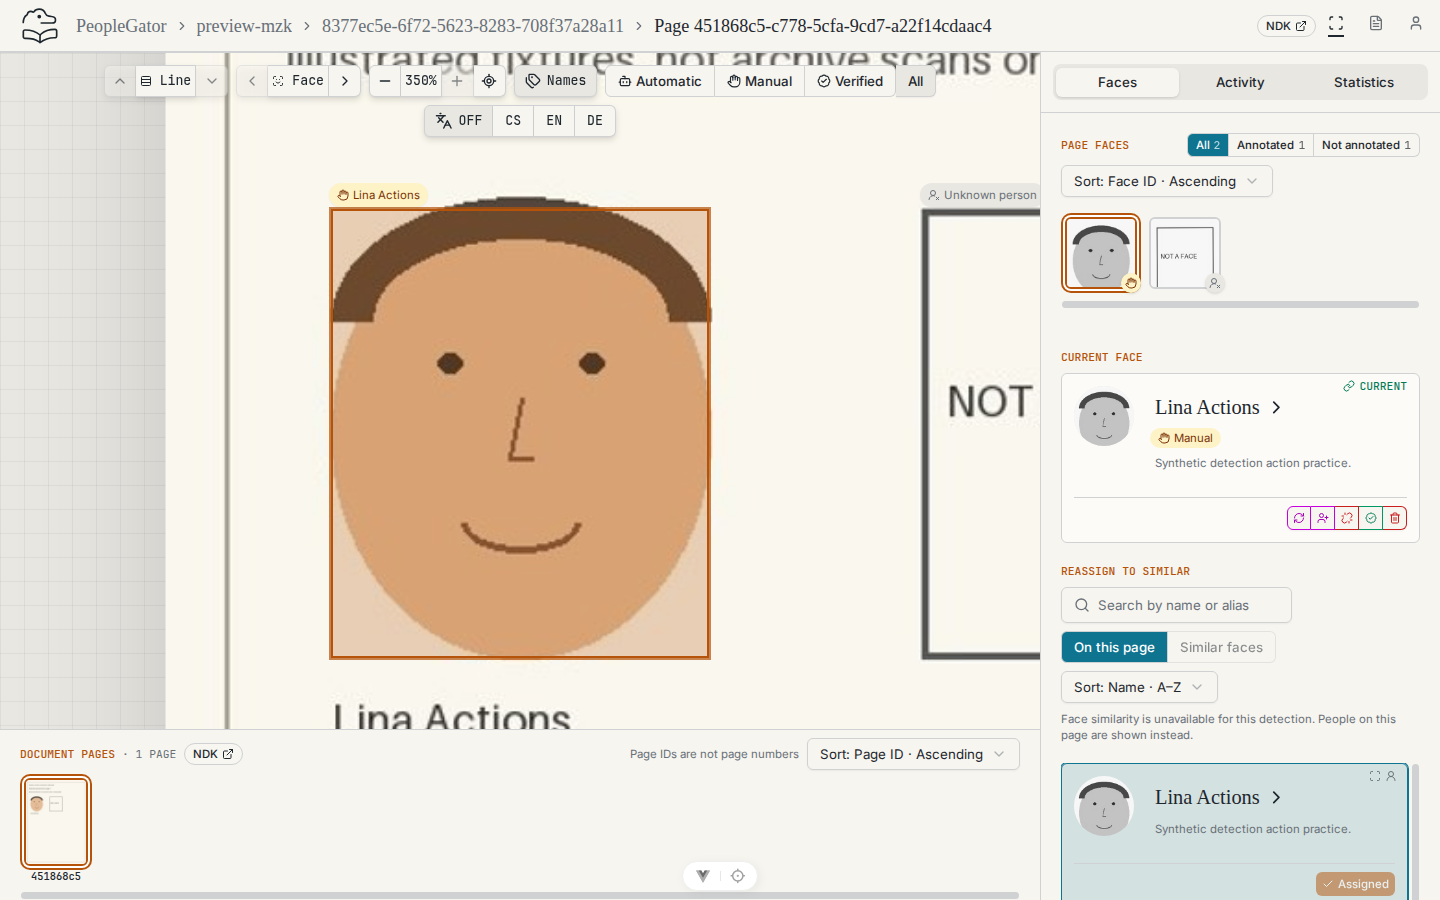
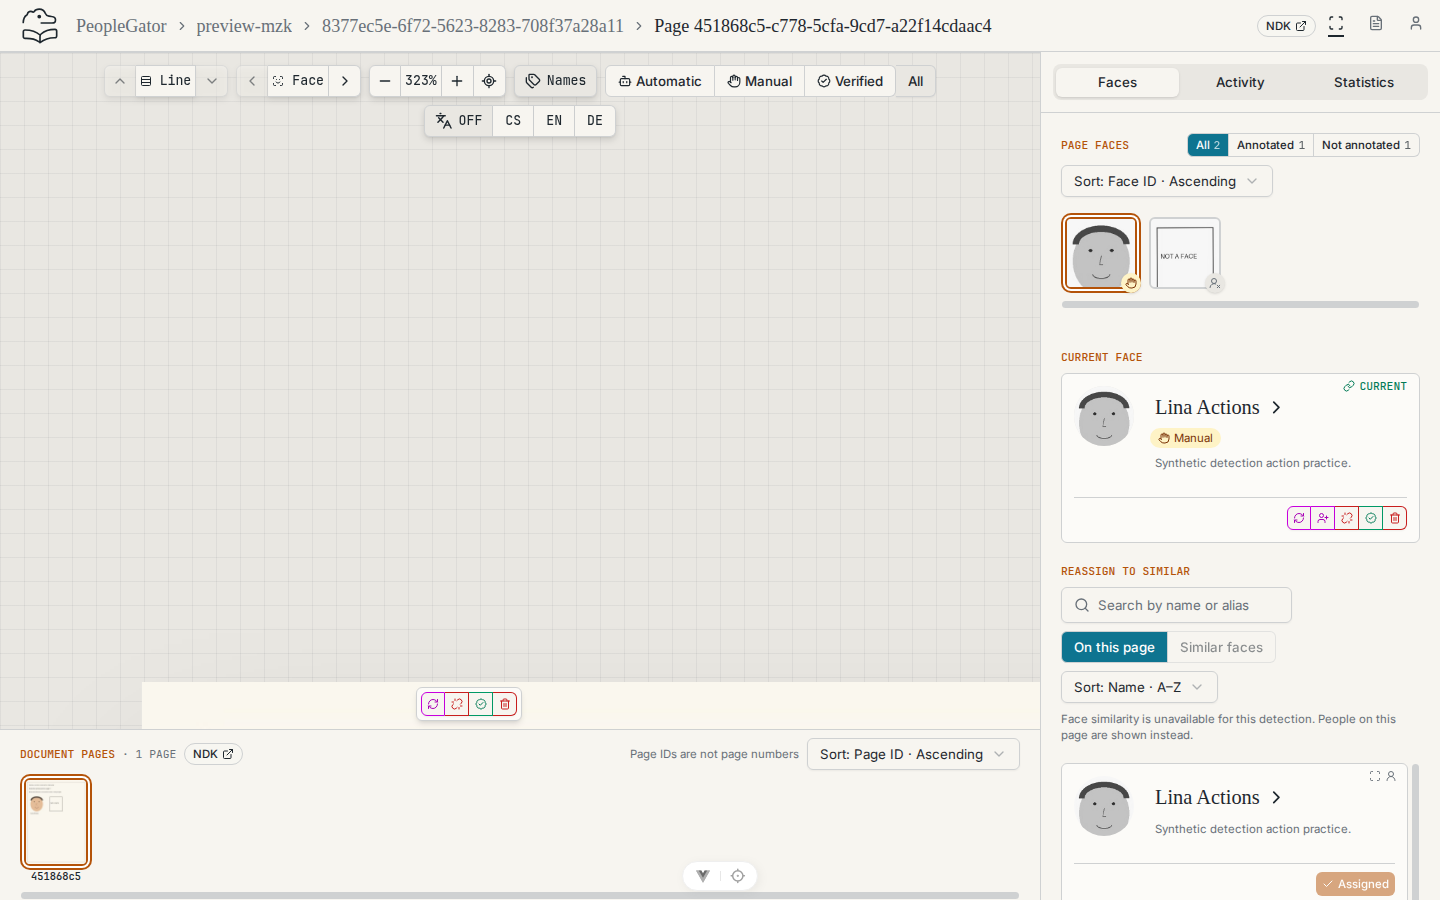
Keep detection actions available for the selected face during scan movement

diff --git a/people-gator-app/src/components/custom/DocumentPageOverlay.vue b/people-gator-app/src/components/custom/DocumentPageOverlay.vue
@@ -1,8 +1,8 @@
 <script setup lang="ts">
 import EntityLinkStateBadge from './EntityLinkStateBadge.vue'
 import { linkTooltip } from '@/lib/entity-links'
-import { ref, watch, type CSSProperties } from 'vue'
-import { Popover, PopoverTrigger, PopoverContent } from '@/components/ui/popover'
+import { ref, type CSSProperties } from 'vue'
+import { Popover, PopoverAnchor, PopoverContent } from '@/components/ui/popover'
 
 import { lineMentionsEntity } from '@/viewmodels/document-workspace.types'
 import type {
@@ -30,21 +30,8 @@ const props = withDefaults(
 const emit = defineEmits<{
   selectLine: [index: number]
   selectFace: [faceId: string]
+  clearFace: []
 }>()
-
-const openFaceId = ref<string | null>(null)
-watch(
-  () => props.selectedFaceId,
-  (id) => {
-    if (id !== openFaceId.value) openFaceId.value = null
-  },
-)
-watch(
-  () => props.faces,
-  (faces) => {
-    if (!faces.some((face) => face.id === openFaceId.value)) openFaceId.value = null
-  },
-)
 
 const overlay = ref<HTMLElement | null>(null)
 function returnFocus(event: Event, faceId: string) {
@@ -129,14 +116,14 @@ function regionStyle(position: Face['position']): CSSProperties {
     <Popover
       v-for="face in faces"
       :key="face.id"
-      :open="openFaceId === face.id"
-      @update:open="openFaceId = $event && actionsEnabled ? face.id : null"
+      :open="actionsEnabled && selectedFaceId === face.id"
     >
-      <PopoverTrigger as-child>
+      <PopoverAnchor as-child>
         <button
           v-if="face.position.width > 0 && face.position.height > 0"
           :key="face.id"
           type="button"
+          :id="`detection-${face.id}`"
           data-region-type="face"
           :data-detection-id="face.id"
           class="pointer-events-auto absolute border-2 transition-colors focus-visible:outline-2 focus-visible:outline-offset-2 focus-visible:outline-accent"
@@ -144,6 +131,8 @@ function regionStyle(position: Face['position']): CSSProperties {
           :style="regionStyle(face.position)"
           :aria-label="`Select ${face.name}: ${linkTooltip(face)}`"
           :aria-pressed="face.id === selectedFaceId"
+          :aria-expanded="actionsEnabled ? face.id === selectedFaceId : undefined"
+          :aria-haspopup="actionsEnabled ? 'dialog' : undefined"
           @pointerdown.stop
           @click.stop="emit('selectFace', face.id)"
         >
@@ -157,7 +146,7 @@ function regionStyle(position: Face['position']): CSSProperties {
             :class="showBadgeNames ? 'max-w-40' : 'size-6'"
           />
         </button>
-      </PopoverTrigger>
+      </PopoverAnchor>
       <PopoverContent
         v-if="$slots.actions"
         side="top"
@@ -166,10 +155,13 @@ function regionStyle(position: Face['position']): CSSProperties {
         :collision-padding="8"
         sticky="always"
         update-position-strategy="always"
-        hide-when-detached
+        prioritize-position
+        :aria-labelledby="`detection-${face.id}`"
+        @interact-outside.prevent
+        @escape-key-down="emit('clearFace')"
         @close-auto-focus="returnFocus($event, face.id)"
       >
-        <slot name="actions" :face="face" :close="() => (openFaceId = null)" />
+        <slot name="actions" :face="face" />
       </PopoverContent>
     </Popover>
   </div>

diff --git a/people-gator-app/src/__tests__/DocumentPageOverlay.spec.ts b/people-gator-app/src/__tests__/DocumentPageOverlay.spec.ts
@@ -212,7 +212,7 @@ describe('DocumentPageOverlay', () => {
   })
 })
 
-it('opens actions, restores keyboard focus on Escape and dismisses the first outside click', async () => {
+it('keeps selected-face actions through viewport movement and outside clicks until selection clears', async () => {
   vi.stubGlobal(
     'ResizeObserver',
     class {
@@ -256,10 +256,14 @@ it('opens actions, restores keyboard focus on Escape and dismisses the first out
     expect(panel!.contains(document.activeElement)).toBe(true)
     panel!.dispatchEvent(new KeyboardEvent('keydown', { key: 'Escape', bubbles: true }))
     await flushPromises()
+    expect(wrapper.emitted('clearFace')).toEqual([[]])
+    await wrapper.setProps({ selectedFaceId: null })
+    await flushPromises()
     await new Promise((resolve) => setTimeout(resolve, 10))
     expect(document.querySelector('[data-slot="popover-content"]')).toBeNull()
     expect(document.activeElement).toBe(detection.element)
     await detection.trigger('click')
+    await wrapper.setProps({ selectedFaceId: 'one' })
     await flushPromises()
     await new Promise((resolve) => setTimeout(resolve, 10))
     const reopened = document.querySelector<HTMLElement>('[data-slot="popover-content"]')!
@@ -267,6 +271,11 @@ it('opens actions, restores keyboard focus on Escape and dismisses the first out
       .querySelector('button')!
       .dispatchEvent(new MouseEvent('pointerdown', { bubbles: true }))
     document.body.dispatchEvent(new MouseEvent('pointerdown', { bubbles: true }))
+    await flushPromises()
+    expect(document.querySelector('[data-slot="popover-content"]')).toBe(reopened)
+    await wrapper.setProps({ pageBounds: { left: -900, top: -800, width: 1000, height: 1600 } })
+    expect(document.querySelector('[data-slot="popover-content"]')).toBe(reopened)
+    await wrapper.setProps({ selectedFaceId: null })
     await flushPromises()
     expect(document.querySelector('[data-slot="popover-content"]')).toBeNull()
   } finally {

diff --git a/people-gator-app/src/views/DocumentPageView.vue b/people-gator-app/src/views/DocumentPageView.vue
@@ -301,9 +301,7 @@ async function deleteDetection() {
   if (!face) return
   try {
     await deleteMutation.mutateAsync(face.id)
-    selectedFaceId.value = null
-    selectedPersonId.value = null
-    syncRoute()
+    clearFace()
     deletionTarget.value = null
     viewerElement.value?.focus()
   } catch {
@@ -376,6 +374,12 @@ function selectFace(faceId: string) {
   selectedFaceId.value = faceId
   selectedPersonId.value = faces.value.find((face) => face.id === faceId)?.personId ?? null
   if (selectedPersonId.value) showOnPageEntities()
+  syncRoute()
+}
+
+function clearFace() {
+  selectedFaceId.value = null
+  selectedPersonId.value = null
   syncRoute()
 }
 
@@ -454,8 +458,7 @@ async function createSimilarPerson(person: { name: string; shortDescription?: st
   syncRoute()
 }
 
-async function focusSimilarPeopleSearch(close?: () => void) {
-  close?.()
+async function focusSimilarPeopleSearch() {
   await router.replace({ query: { ...route.query, panel: undefined }, hash: '' })
   await nextTick()
   similarPeopleSearch.value?.focus()
@@ -697,14 +700,15 @@ onBeforeUnmount(() => {
         :show-badge-names="showBadgeNames"
         @select-line="selectLine"
         @select-face="selectFace"
+        @clear-face="clearFace"
       >
-        <template #actions="{ face, close }">
+        <template #actions="{ face }">
           <FaceActionButtons
             :face="face"
             :can-annotate="canAnnotate"
             :can-delete="canDelete"
             :busy="actionBusy"
-            @find-profile="focusSimilarPeopleSearch(close)"
+            @find-profile="focusSimilarPeopleSearch"
             @unassign="unassignSelectedFace"
             @verify="verifyFace(face)"
             @delete="deletionTarget = face"

diff --git a/people-gator-app/src/__tests__/DocumentPageView.spec.ts b/people-gator-app/src/__tests__/DocumentPageView.spec.ts
@@ -319,3 +319,20 @@ describe('shared detection actions', () => {
     wrapper.unmount()
   })
 })
+
+it('clears the selected face and route when the overlay requests Escape dismissal', async () => {
+  const wrapper = await mountView()
+  const overlay = wrapper.findComponent({ name: 'DocumentPageOverlay' })
+  overlay.vm.$emit('select-face', 'a')
+  await flushPromises()
+  expect(overlay.props('selectedFaceId')).toBe('a')
+  overlay.vm.$emit('clear-face')
+  await flushPromises()
+  expect(overlay.props('selectedFaceId')).toBeNull()
+  expect(mocks.replace).toHaveBeenLastCalledWith(
+    expect.objectContaining({
+      query: expect.objectContaining({ person: undefined, selectedPerson: undefined }),
+    }),
+  )
+  wrapper.unmount()
+})

diff --git a/people-gator-api/docs/PREVIEW-SEEDING.md b/people-gator-api/docs/PREVIEW-SEEDING.md
@@ -854,3 +854,7 @@ identifies Verify, and red identifies Unlink/Delete. Delete is available only wi
 existing `people-gator:admin` scope and requires confirmation. Deleted fixtures
 stay deleted on rerun; verifying or reassigning the linked face is also preserved.
 Deleting a selected person portrait uses the existing automatic portrait fallback.
+
+Detection actions stay open while a face is selected, including during pan/zoom;
+they stay inside the viewer even when the face moves offscreen. Escape clears
+the face selection. Selecting another face moves the actions to that face.
